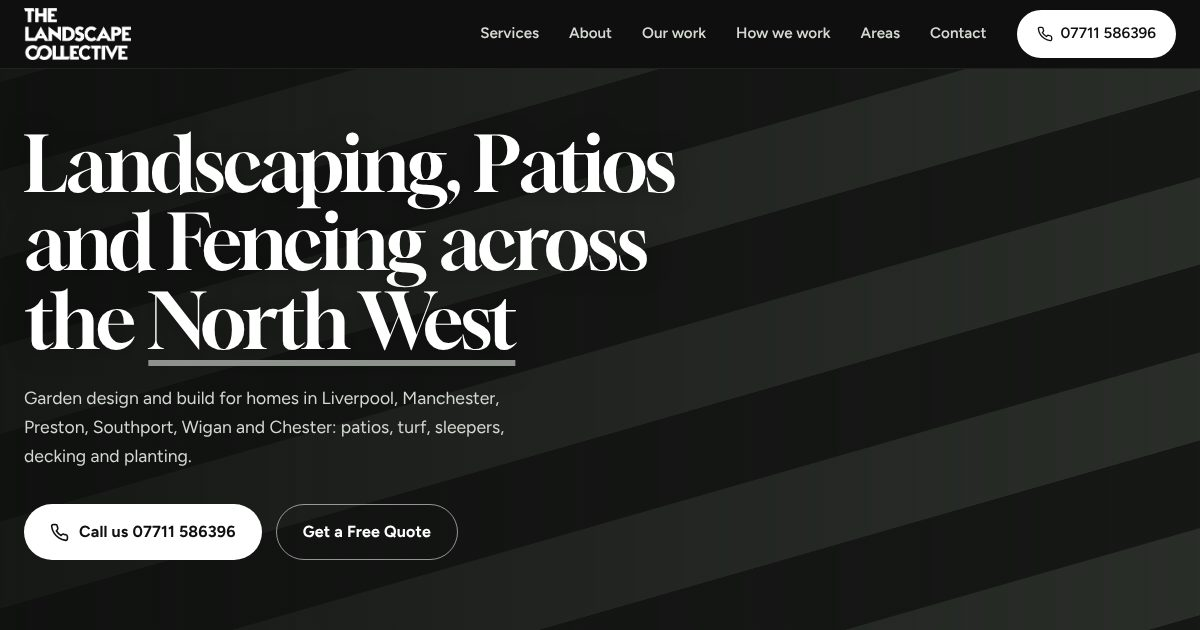
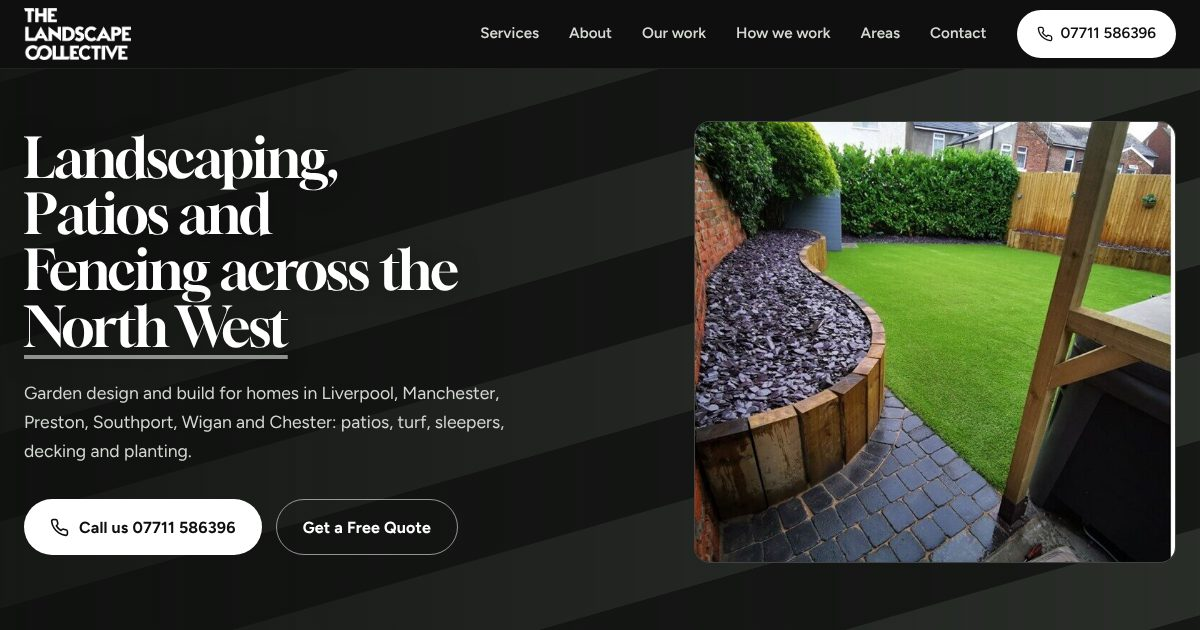
The Landscape Collective NW A: sleeper edging photo beside the hero text, photo band removed

diff --git a/the-landscape-collective-nw/index.html b/the-landscape-collective-nw/index.html
@@ -120,6 +120,13 @@ form .btn-moss:hover,.pick .btn-moss:hover{background:#000}
 .hero h1 .pl{color:#fff;text-decoration:underline;text-decoration-thickness:.075em;text-underline-offset:.14em;text-decoration-color:#8d938c;text-decoration-skip-ink:none}
 .hero .lede{margin-top:24px;max-width:540px;color:#d3d8d1;font-size:1.1rem;line-height:1.65}
 .hero-cta{display:flex;gap:14px;flex-wrap:wrap;margin-top:34px}
+.hero-photo{margin:0;border-radius:16px;overflow:hidden;border:1px solid rgba(255,255,255,.18);background:var(--s1)}
+.hero-photo img{width:100%;height:100%;object-fit:cover}
+@media (min-width:781px){
+  .hero-inner{display:grid;grid-template-columns:1.12fr .88fr;gap:56px;align-items:center;align-content:center}
+  .hero-photo{height:min(560px,calc(100vh - 68px - 120px));min-height:380px}
+  .hero h1{max-width:12ch;font-size:clamp(2.6rem,4.6vw,4.7rem)}
+}
 .fu{opacity:0;transform:translateY(22px);animation:rise .7s ease forwards}
 .d1{animation-delay:.25s}.d2{animation-delay:.4s}.d3{animation-delay:.55s}
 
@@ -260,6 +267,7 @@ footer a:hover{color:#fff}
   .hero::after{background:linear-gradient(180deg,rgba(14,15,14,0) 0%,rgba(14,15,14,.35) 40%,rgba(14,15,14,.55) 100%)}
   .hero-cta{flex-direction:column;align-items:stretch}
   .hero-cta .btn{width:100%}
+  .hero-photo{margin-top:32px;aspect-ratio:16/11}
   .trust-in{grid-template-columns:1fr;row-gap:0;padding-top:14px;padding-bottom:14px}
   .trust-item,.trust-item:first-child,.trust-item:nth-child(4){border-left:0;padding:14px 0;border-top:1px solid var(--line)}
   .trust-item:first-child{border-top:0}
@@ -311,16 +319,18 @@ footer a:hover{color:#fff}
     <div class="row"><i style="animation-delay:.05s"></i></div><div class="row"><i style="animation-delay:.17s"></i></div><div class="row"><i style="animation-delay:.29s"></i></div><div class="row"><i style="animation-delay:.41s"></i></div><div class="row"><i style="animation-delay:.53s"></i></div><div class="row"><i style="animation-delay:.65s"></i></div><div class="row"><i style="animation-delay:.77s"></i></div><div class="row"><i style="animation-delay:.89s"></i></div><div class="row"><i style="animation-delay:1.01s"></i></div><div class="row"><i style="animation-delay:1.13s"></i></div><div class="row"><i style="animation-delay:1.25s"></i></div><div class="row"><i style="animation-delay:1.37s"></i></div>
   </div></div>
   <div class="hero-inner wrap">
+    <div class="hero-copy">
     <h1 class="fu d1">Landscaping, Patios and Fencing across the <span class="pl">North West</span></h1>
     <p class="lede fu d2">Garden design and build for homes in Liverpool, Manchester, Preston, Southport, Wigan and Chester: patios, turf, sleepers, decking and planting.</p>
     <div class="hero-cta fu d3">
       <a href="#" class="btn btn-moss js-call" id="heroCall"><svg viewBox="0 0 24 24" fill="none" stroke="currentColor" stroke-width="2" stroke-linecap="round" stroke-linejoin="round" aria-hidden="true"><path d="M22 16.9v3a2 2 0 0 1-2.2 2 19.8 19.8 0 0 1-8.6-3.1 19.5 19.5 0 0 1-6-6A19.8 19.8 0 0 1 2.1 4.2 2 2 0 0 1 4.1 2h3a2 2 0 0 1 2 1.7c.1.9.4 1.8.7 2.7a2 2 0 0 1-.5 2.1L8 9.8a16 16 0 0 0 6 6l1.3-1.3a2 2 0 0 1 2.1-.4c.9.3 1.8.6 2.7.7a2 2 0 0 1 1.7 2z"/></svg><span>Call us <span class="js-phone">&nbsp;</span></span></a>
       <a href="#contact" class="btn btn-ghost">Get a Free Quote</a>
     </div>
+    </div>
+    <figure class="hero-photo fu d3"><img src="svc-sleepers.jpg" alt="Curved timber sleeper edging with slate chippings, artificial grass and a block paved path" width="672" height="660"></figure>
   </div>
 </section>
 
-<div class="band-photo"><img src="svc-lawns.jpg" alt="Striped artificial lawn beside a slate patio, garden shed and brick wall" width="1350" height="1350"></div>
 
 <section class="trust">
   <div class="trust-in wrap">
